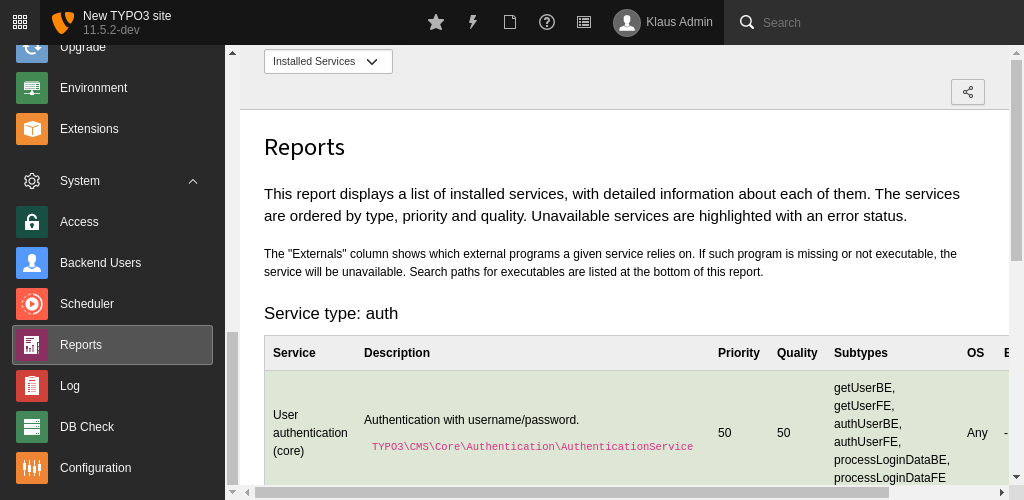
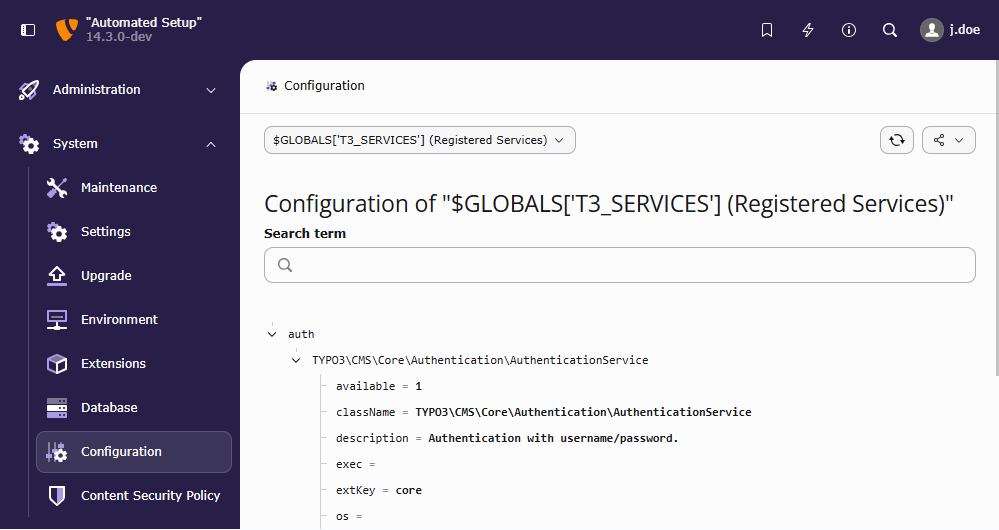
[TASK] Replace Mfa / Authentication screenshots
Releases: main

diff --git a/Documentation/ApiOverview/Authentication/AuthenticationService/Index.rst b/Documentation/ApiOverview/Authentication/AuthenticationService/Index.rst
@@ -40,23 +40,15 @@ It is thus possible to find solutions for using LDAP as an
 authentication server, for example.
 
 You can check which authentication services are installed
-using the :guilabel:`Administration > Reports > Installed Services`
-view:
+using the :guilabel:`System > Configuration` module:
 
-..  versionchanged:: 14.0
-    Until TYPO3 V14 this module was found in :guilabel:`System > Reports`.
-    See also: `Feature: #107628 - Improved backend module naming and structure <https://docs.typo3.org/permalink/changelog:feature-107628-1729026000>`_.
+..  figure:: /Images/ManualScreenshots/Authentication/InstalledAuthServices.png
+    :zoom: lightbox
 
-..  include:: /Images/ManualScreenshots/Authentication/InstalledAuthServices.rst.txt
+    All installed authentication services and their priority
 
-..  note::
-
-    For the :guilabel:`Reports` module to be visible, the system extension
-    reports has to be installed. You can install it via Composer:
-
-    ..  code-block:: bash
-
-        composer require typo3/cms-reports
+For the :guilabel:`System > Configuration` module to be visible, the system
+extension :composer:`typo3/cms-lowlevel` has to be installed.
 
 ..  index::
     Authentication; Process

diff --git a/Documentation/ApiOverview/Authentication/MultiFactorAuthentication/Index.rst b/Documentation/ApiOverview/Authentication/MultiFactorAuthentication/Index.rst
@@ -24,7 +24,7 @@ user needs
 Read more about the concepts of MFA here:
 https://en.wikipedia.org/wiki/Multi-factor_authentication
 
-..  figure:: /Images/ManualScreenshots/Frontend/Authentication/MfaEnterCode.png
+..  figure:: /Images/ManualScreenshots/Authentication/MfaEnterCode.png
     :alt: TYPO3 Login Screen for entering MFA code (TOTP)
     :class: with-border with-shadow
 
@@ -43,7 +43,10 @@ authentication or frontend authentication with a multi-factor step in-between.
 Managing MFA providers is currently possible via the :guilabel:`User Settings`
 module in the tab called :guilabel:`Account security`.
 
-..  include:: /Images/ManualScreenshots/Authentication/MfaActivate.rst.txt
+..  figure:: /Images/ManualScreenshots/Authentication/MfaActivate.png
+    :zoom: lightbox
+
+    Manage your MFA providers in the User Settings module
 
 The :guilabel:`Account security` tab displays the current state:
 
@@ -78,7 +81,10 @@ provider is active. It is only meant as a fallback provider, in case the
 authentication credentials for the "main" provider(s) are lost. It is encouraged
 to activate this provider, and keep the codes at a safe place.
 
-..  include:: /Images/ManualScreenshots/Authentication/MfaSelectProvider.rst.txt
+..  figure:: /Images/ManualScreenshots/Authentication/MfaSelectProvider.png
+    :zoom: lightbox
+
+    Select a MFA provider screen
 
 Third-party MFA providers
 -------------------------
@@ -106,7 +112,10 @@ Each inactive provider contains a :guilabel:`Setup` button which opens the
 corresponding configuration view. This view can be different depending on the
 MFA provider.
 
-..  include:: /Images/ManualScreenshots/Authentication/MfaQrCode.rst.txt
+..  figure:: /Images/ManualScreenshots/Authentication/MfaQrCode.png
+    :zoom: lightbox
+
+    MFA TOTP provider configuration screen
 
 Each provider contains an :guilabel:`Edit/Change` button, which allows to adjust
 the provider's settings. This view allows, for example, to set a provider as the
@@ -178,7 +187,7 @@ of all currently registered providers in the installation. This is especially
 helpful to find out the exact provider identifier, needed for some
 user TSconfig options.
 
-..  include:: /Images/ManualScreenshots/Authentication/MfaConfigurationModule.rst.txt
+..  include:: /Images/ManualScreenshots/Authentication/Groups/TabMounts.png
 
 
 Configuration